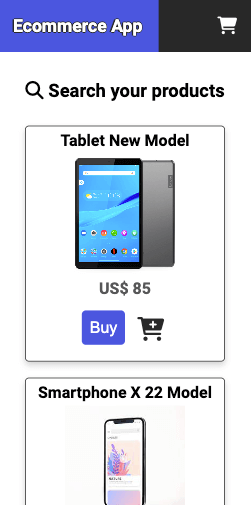
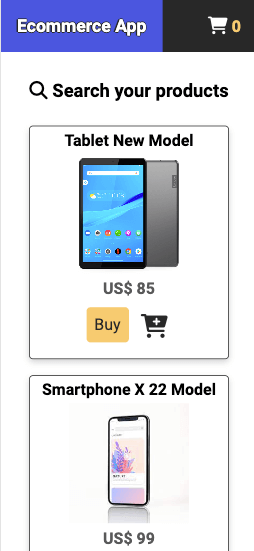
add: cart count

Changed region(s): [[0.0837, 0.1485, 0.9203, 1.0], [0.0, 0.0, 1.0, 1.0]]

diff --git a/app.js b/app.js
@@ -173,6 +173,8 @@ const showProducts = async () => {
 let cart = ''
 let sidebar = document.getElementById('sidebar')
 let cartButton = document.querySelector('.cart')
+let cartItems = document.querySelector('.cart-items')
+let payButton = document.querySelector('.pay-button')
 
 const showCard = () => {
     sidebar.style.display = "inline"
@@ -207,12 +209,17 @@ let deleteProduct = (indexProduct) => {
 
 const cartTemplate = () => {
     if (cartState.cart.length < 1) {
+        payButton.style.display = "none"
         return `<p><i class="fa-regular fa-circle-xmark"></i> Empty</p>`
     } 
 
     let cartProducts = cartState.cart.map((product, indexProduct) => 
         `<li>${product.title}. <strong>Price: $${product.price || product.prices.prices[0].amount}</strong> <button onclick="deleteProduct(${indexProduct})" class="remove-product-button"><i class="fa-solid fa-xmark"></i></button></li>`
     ).join("")
+
+    cartItems.innerHTML = cartState.cart.length
+    payButton.style.display = "inline"
+    
     return cartProducts
 }
 

diff --git a/index.html b/index.html
@@ -16,7 +16,7 @@
     <nav>
       <div class="nav-wrapper">
         <a href="/" class="active">Ecommerce App</a>
-        <a href="#" class="cart"><i class="fa-solid fa-cart-shopping"></i></a>
+        <a href="#" class="cart"><i class="fa-solid fa-cart-shopping"></i> <span class="cart-items">0</span></a>
       </div>
     </nav>
     <header>
@@ -25,10 +25,13 @@
     <main id="main">
       <div id="root"></div>
     </main>
-    <section id="sidebar" class="sidebar" style="display: none;">
+    <section id="sidebar" class="sidebar" style="display:none;">
       <h2>Your Shopping <i class="fa-solid fa-cart-shopping"></i></h2>
       <hr>
       <ul id="cart-list"></ul>
+      <div class="pay-button">
+        <button class="buy-button">Pay</button>
+      </div>
     </section>
     <!-- Axios CDN -->
     <script src="https://cdn.jsdelivr.net/npm/axios/dist/axios.min.js"></script>

diff --git a/main.css b/main.css
@@ -97,6 +97,10 @@ main {
   margin-bottom: 1rem;
 }
 
+.pay-button {
+  display: none;
+}
+
 .buy-button {
   font-size: 2rem;
   padding: 1rem;
@@ -105,6 +109,8 @@ main {
   border: var(--blue);
   border-radius: .5rem;
   cursor: pointer;
+  margin-top: 1rem;
+  float: right;
 }
 
 #mercadoLibreButton {
@@ -235,6 +241,11 @@ main {
 
 .remove-product-button {
   color: var(--blue);
+}
+
+.cart-items {
+  font-size: 2rem;
+  color: var(--yellow);
 }
 
 @media only screen and (max-width: 600px){
